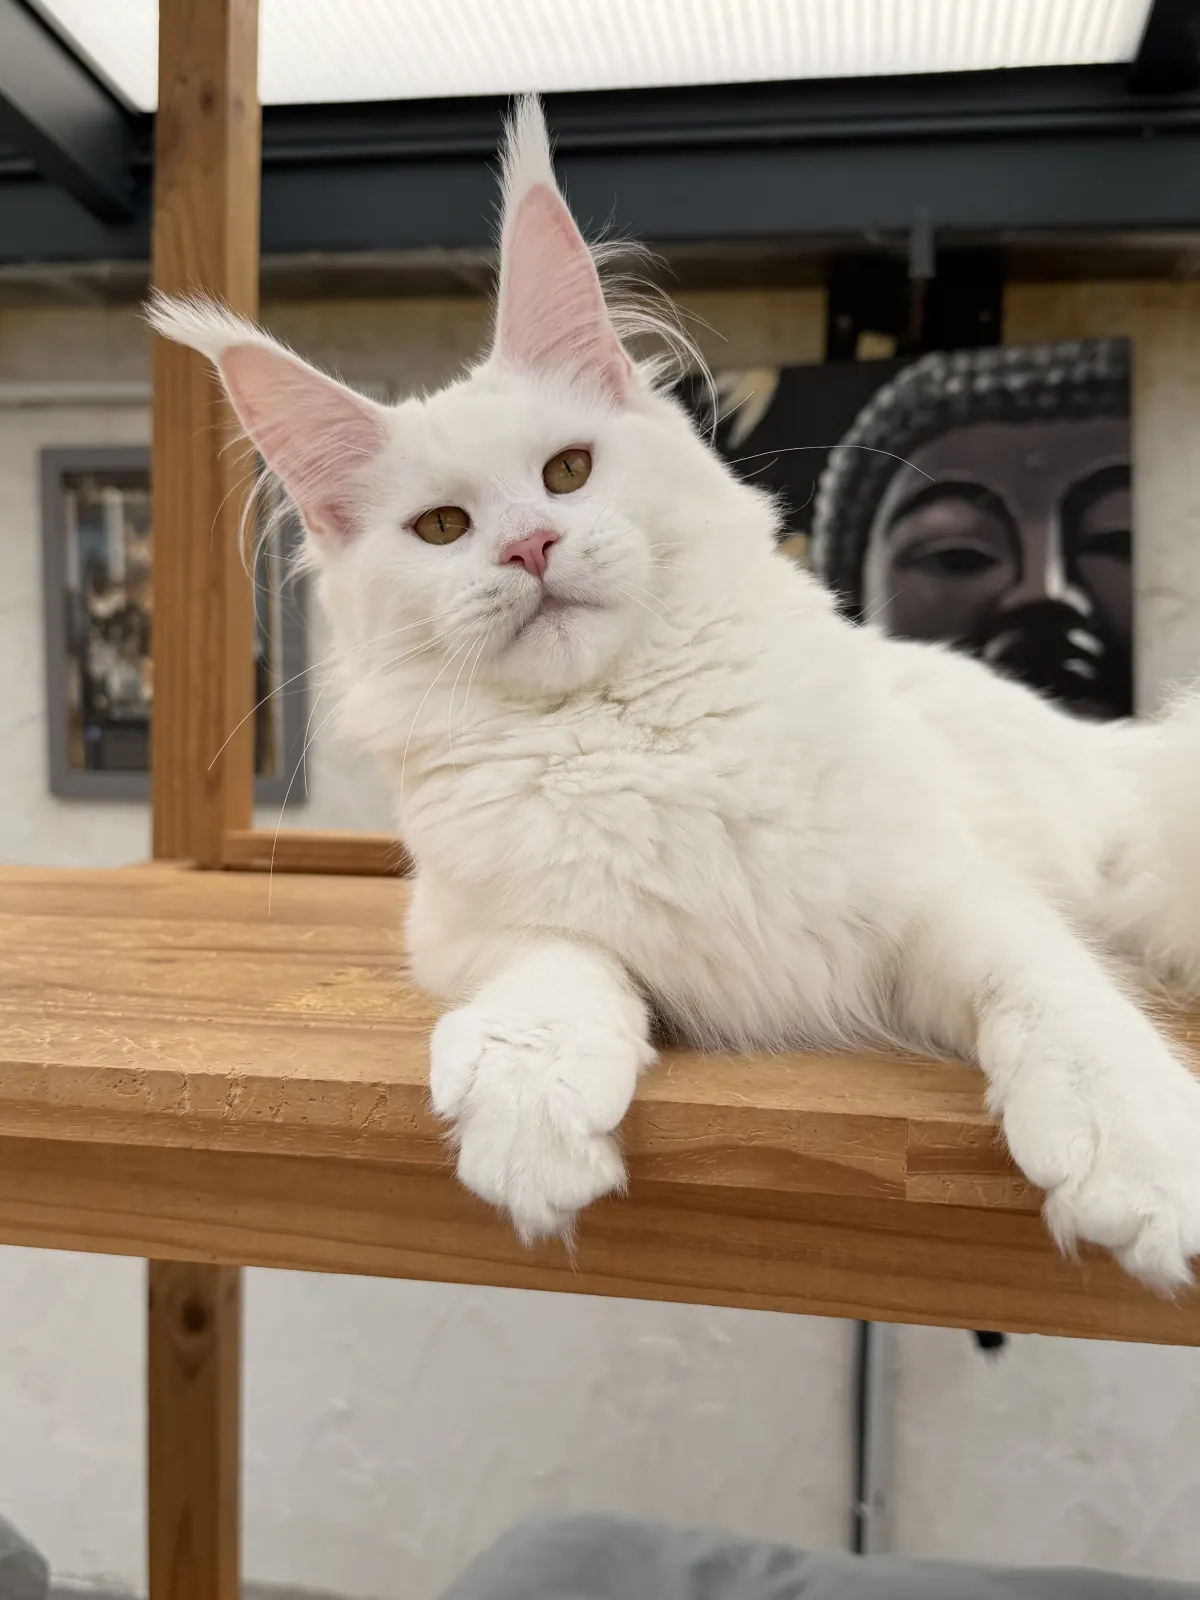
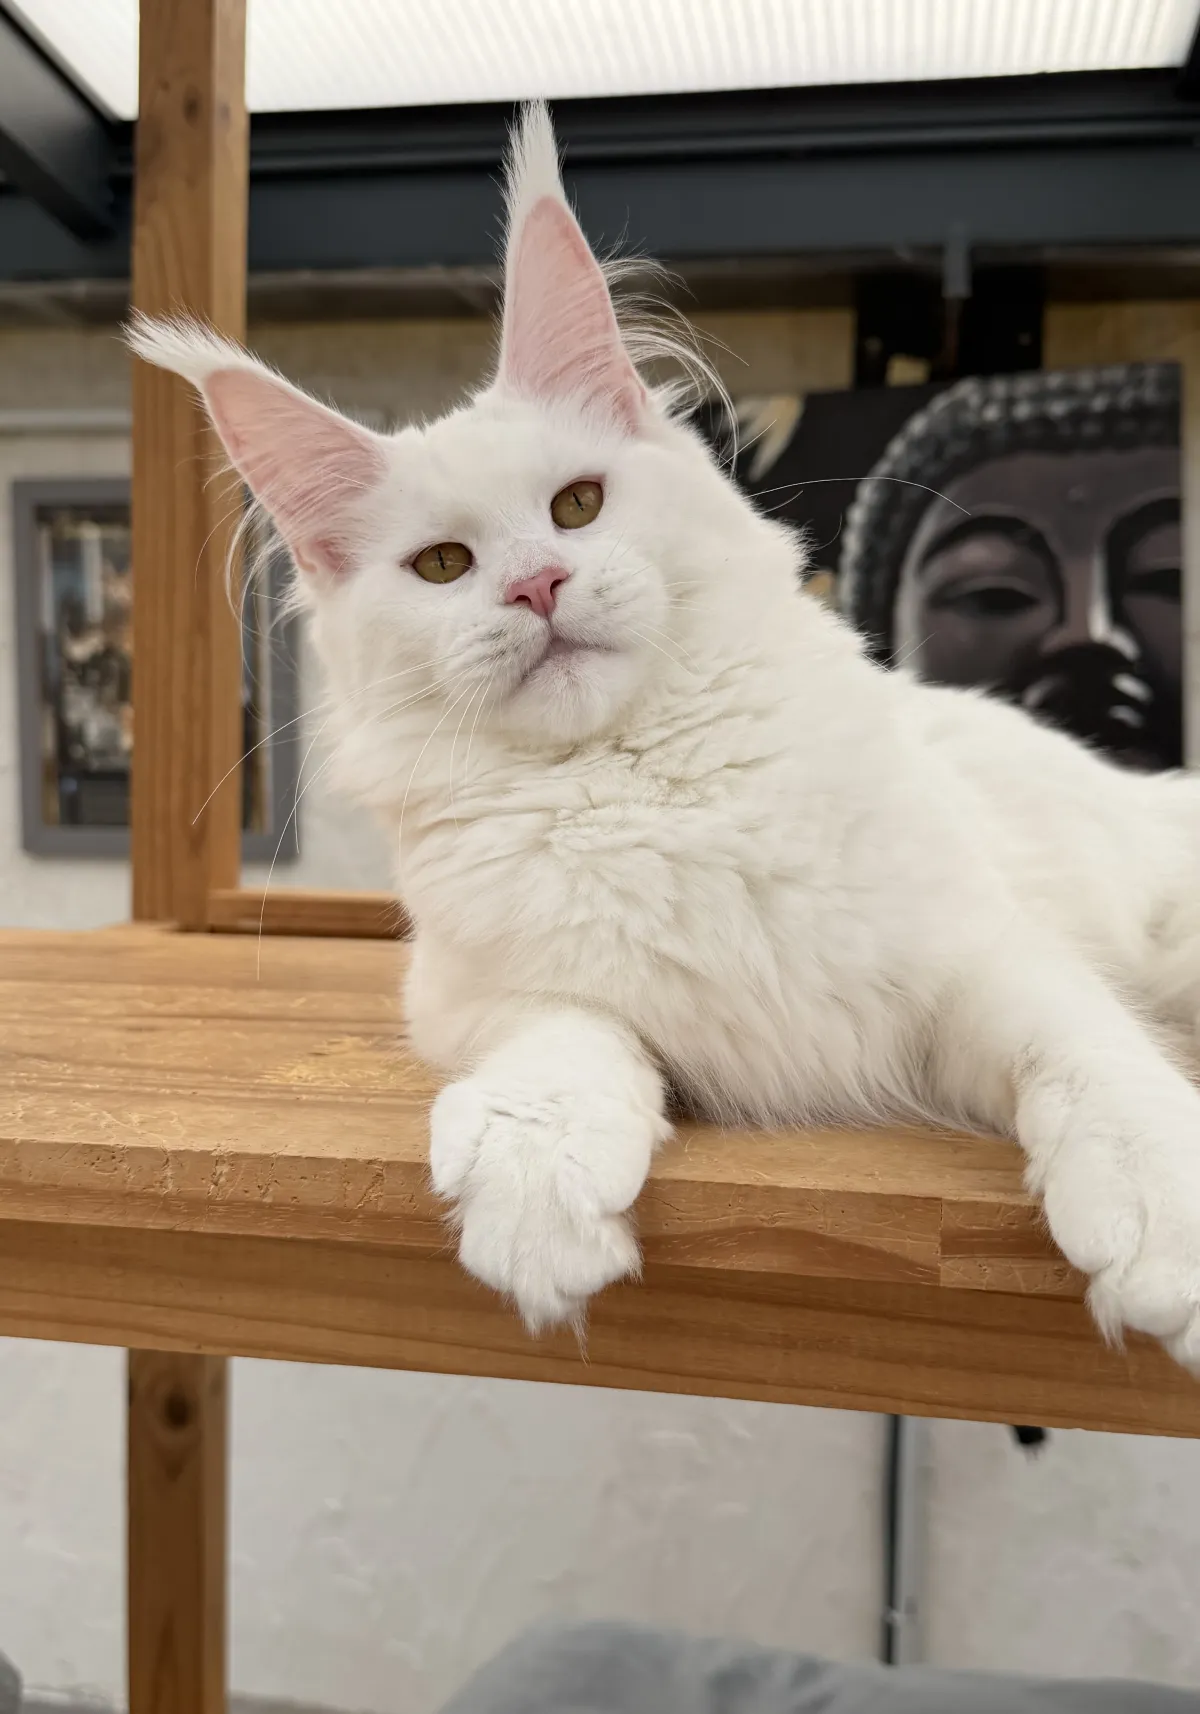
Recadrer au sujet, unifier les cadres, donner de la matiere a la page
TROIS DEFAUTS RELEVES.

Les photos etaient de formats differents et object-fit les recadrait au
centre geometrique — qui, sur un chat, est le ventre : les tetes sortaient
du cadre. Elles sont desormais recadrees au SUJET, depuis les originaux
pleine resolution : on mesure l'energie de contours par ligne et par
colonne, on prend le barycentre, et on remonte d'un huitieme parce que
l'oeil veut la tete et non le milieu du corps. Les vingt-neuf cadres du
site partagent maintenant un seul et meme format, celui des photos, donc
plus rien n'est rogne.

Les reperes de la page de race etaient cales sur une photo remplacee
depuis, et leur cadre etait en 4/3 quand la photo est en 7/10 : l'image
etait recadree et les reperes, poses en pourcentage du CADRE, ne
designaient plus rien. Cadre au format de la photo, lecteur en deux
colonnes, coordonnees reprises sur un portrait de profil ou chaque trait
du standard se montre.

La page etait nue : un aplat sombre, meme beau, reste un aplat. Ajout du
grain (une tuile de bruit fixe, en fondu overlay), de la profondeur (chaque
bande s'assombrit vers ses bords), d'un filet d'or sous chaque titre de
chapitre, de lettrines sur les longs passages, d'equerres d'angle sur les
sections, d'un reflet qui balaye les cadres au survol, et d'une derive
lente des bandes photo pilotee par le defilement.

diff --git a/resources/css/app.css b/resources/css/app.css
@@ -196,7 +196,10 @@ em{font-style:italic}
 /* Trois filets successifs, comme la gorge d'un portail. La forme est
    obtenue par border-radius elliptique : elle se déforme avec le cadre,
    là où un clip-path figerait la courbe. */
-.arche{position:relative;padding:9px;border:1px solid rgba(217,178,106,.55);
+/* Le format unique de tous les cadres. Les photos sont recadrees a l'identique
+   (voir le script de recadrage) : cadre et photo ont donc exactement le meme
+   rapport, et rien n'est jamais rogne ni deforme. */
+.arche{--format:7/10;aspect-ratio:var(--format);position:relative;padding:9px;border:1px solid rgba(217,178,106,.55);
   border-radius:50% 50% 4px 4px / 35% 35% 4px 4px;
   background:linear-gradient(180deg,rgba(217,178,106,.14),rgba(217,178,106,.02) 60%)}
 .arche > i{display:block;width:100%;height:100%;padding:5px;
@@ -263,7 +266,7 @@ em{font-style:italic}
   width:min(330px,86vw);transition:transform .5s var(--ease)}
 @media(min-width:900px){.portrait:nth-child(even){margin-top:46px}}
 .portrait:hover{transform:translateY(-6px)}
-.portrait .arche{width:100%;aspect-ratio:33/46;transition:border-color .4s}
+.portrait .arche{width:100%;aspect-ratio:7/10;transition:border-color .4s}
 .portrait:hover .arche{border-color:rgba(242,223,174,.8)}
 .portrait img{transition:transform 1.1s var(--ease)}
 .portrait:hover img{transform:scale(1.05)}
@@ -277,7 +280,7 @@ em{font-style:italic}
 .fiche{display:flex;flex-direction:column;gap:14px;
   transition:transform .45s var(--ease)}
 .fiche:hover{transform:translateY(-5px)}
-.fiche .arche{width:100%;aspect-ratio:4/5;position:relative;transition:border-color .4s}
+.fiche .arche{width:100%;aspect-ratio:7/10;position:relative;transition:border-color .4s}
 .fiche:hover .arche{border-color:rgba(242,223,174,.75)}
 .fiche .pastille{position:absolute;left:50%;top:18px;transform:translateX(-50%);z-index:2;
   backdrop-filter:blur(8px)}
@@ -523,8 +526,17 @@ footer{view-transition-name:pied}
 /* Une photo, des repères posés dessus, et un panneau qui se remplit au
    survol comme au clic. Sans JavaScript le panneau garde le premier repère :
    la page reste lisible et complète. */
-.lecture{position:relative;overflow:hidden;border:1px solid var(--filet);background:var(--nuit-3)}
-.lecture > img{width:100%;aspect-ratio:4/3;object-fit:cover}
+/* Le lecteur tient en deux colonnes : la photo a gauche, le panneau a droite.
+   Le cadre suit le format exact de la photo (7/10) — un cadre au format
+   different recadrerait l'image, et les reperes, poses en pourcentage du
+   CADRE, ne designeraient plus rien. */
+.lecteur{display:grid;grid-template-columns:minmax(0,440px) minmax(0,1fr);
+  gap:clamp(22px,3vw,44px);align-items:start}
+@media(max-width:820px){.lecteur{grid-template-columns:1fr;justify-items:center}}
+
+.lecture{position:relative;overflow:hidden;border:1px solid var(--filet);background:var(--nuit-3);
+  width:100%;aspect-ratio:7/10}
+.lecture > img{width:100%;height:100%;object-fit:cover;display:block}
 .repere{position:absolute;width:28px;height:28px;padding:0;border-radius:50%;
   border:1px solid var(--or-clair);background:rgba(8,11,10,.55);
   backdrop-filter:blur(4px);-webkit-backdrop-filter:blur(4px);
@@ -537,7 +549,7 @@ footer{view-transition-name:pied}
   animation:onde 3s ease-out infinite}
 @keyframes onde{0%{transform:scale(.8);opacity:.9}100%{transform:scale(1.55);opacity:0}}
 @media(prefers-reduced-motion:reduce){.repere .onde{animation:none;opacity:.35}}
-.lecture-info{border:1px solid var(--filet);border-top:0;background:var(--nuit-2);
+.lecture-info{border:1px solid var(--filet);background:var(--nuit-2);align-self:center;
   padding:clamp(20px,3vw,26px);min-height:150px;display:flex;flex-direction:column;gap:10px}
 .lecture-info .k{font-family:var(--pierre);font-size:10px;letter-spacing:.2em;text-transform:uppercase;color:var(--or)}
 .lecture-info h3{color:var(--ivoire)}
@@ -706,7 +718,7 @@ a.case:hover{border-color:var(--or-ombre);background:var(--emeraude)}
    clic, et la mise en page ne bouge jamais d'un pixel. */
 .viseur{display:flex;flex-direction:column;gap:12px}
 
-.viseur .scene{cursor:zoom-in;aspect-ratio:4/5}
+.viseur .scene{cursor:zoom-in;aspect-ratio:7/10}
 .viseur .scene > i > u{position:relative}
 .viseur .scene img{position:absolute;inset:0;width:100%;height:100%;object-fit:cover;
   opacity:0;transition:opacity .45s var(--ease)}
@@ -784,3 +796,110 @@ a.case:hover{border-color:var(--or-ombre);background:var(--emeraude)}
 /* ── pied du relevé ──────────────────────────────────────────────── */
 .releve .foot{padding:24px;background:var(--nuit-3);display:flex;flex-direction:column;gap:11px;
   border-top:1px solid var(--filet-2)}
+
+
+/* ═══════════════════════════════════════════════════════════════════
+   La matière
+
+   Un aplat de couleur sombre, même beau, reste un aplat : la page paraît
+   nue. Ce qui manque n'est pas du contenu, c'est de la matière — le grain
+   du papier, la profondeur d'un fond qui s'assombrit vers les bords, et
+   l'ornement qui dit qu'une main est passée par là.
+   ═══════════════════════════════════════════════════════════════════ */
+
+/* ── le grain ────────────────────────────────────────────────────── */
+/* Une tuile de bruit posée sur toute la page, en fondu « overlay » pour
+   qu'elle accroche les zones claires sans salir les noirs. Fixe : elle ne
+   défile pas, comme le grain d'un tirage argentique. */
+#grain{position:fixed;inset:0;z-index:1;pointer-events:none;
+  background-image:url("../images/grain.png");background-size:96px 96px;
+  opacity:.5;mix-blend-mode:overlay}
+@media(prefers-reduced-motion:reduce){#grain{opacity:.32}}
+
+/* Tout ce qui doit rester au-dessus du grain. */
+.bandeau,footer,.hero,.bande,.vivant,.bande-photo,#lb,.barre-chaton{position:relative;z-index:2}
+.bandeau{z-index:60}
+#lb{z-index:90}
+
+/* ── la profondeur ───────────────────────────────────────────────── */
+/* Chaque bande s'assombrit vers ses bords. Deux dégradés très faibles,
+   posés en pseudo-élément pour ne rien coûter en balises. */
+.bande::before{content:"";position:absolute;inset:0;pointer-events:none;z-index:0;
+  background:
+    radial-gradient(120% 70% at 50% 0%,rgba(20,48,42,.28),transparent 62%),
+    radial-gradient(100% 60% at 50% 100%,rgba(0,0,0,.34),transparent 68%)}
+.bande > *{position:relative;z-index:1}
+.bande.creuse::before{
+  background:
+    radial-gradient(110% 60% at 50% 0%,rgba(27,63,54,.34),transparent 64%),
+    radial-gradient(140% 80% at 50% 120%,rgba(0,0,0,.42),transparent 70%)}
+
+/* ── les équerres d'angle sur une bande ──────────────────────────── */
+/* Le même vocabulaire que le registre, monté d'un cran : la section
+   entière est encadrée, discrètement, comme une page de garde. */
+.bande.encadree > .wrap{position:relative;padding-block:clamp(26px,3.4vw,42px)}
+.bande.encadree > .wrap::before,
+.bande.encadree > .wrap::after{content:"";position:absolute;width:34px;height:34px;pointer-events:none;
+  border-color:var(--or-ombre);border-style:solid}
+.bande.encadree > .wrap::before{left:clamp(6px,1.6vw,22px);top:0;border-width:1px 0 0 1px}
+.bande.encadree > .wrap::after{right:clamp(6px,1.6vw,22px);bottom:0;border-width:0 1px 1px 0}
+
+/* ── la lettrine ─────────────────────────────────────────────────── */
+/* L'initiale enluminée d'un texte long : elle donne un point d'entrée à
+   l'œil et signe la page comme un imprimé. */
+.lettrine::first-letter{
+  float:left;font-family:var(--titre);font-size:4.4em;line-height:.82;
+  font-weight:400;padding:.06em .12em 0 0;
+  background:var(--dorure);-webkit-background-clip:text;background-clip:text;color:transparent}
+@supports not ((-webkit-background-clip:text) or (background-clip:text)){
+  .lettrine::first-letter{background:none;color:var(--or-clair)}
+}
+
+/* ── l'or qui balaye un cadre au survol ──────────────────────────── */
+/* Un reflet passe sur le filet doré quand la souris entre. Le masque
+   découpe le dégradé en anneau : seul le filet s'allume, jamais la photo. */
+.arche::after{content:"";position:absolute;inset:-1px;border-radius:inherit;pointer-events:none;
+  padding:1px;opacity:0;transition:opacity .45s var(--ease);
+  background:linear-gradient(118deg,transparent 40%,rgba(255,243,214,.62) 50%,transparent 60%);
+  -webkit-mask:linear-gradient(#000,#000) content-box,linear-gradient(#000,#000);
+          mask:linear-gradient(#000,#000) content-box,linear-gradient(#000,#000);
+  -webkit-mask-composite:xor;mask-composite:exclude}
+.fiche:hover .arche::after,
+.portrait:hover .arche::after,
+.viseur .scene:hover::after{opacity:1}
+@media(prefers-reduced-motion:reduce){.arche::after{display:none}}
+
+/* ── les bandes photo respirent ──────────────────────────────────── */
+/* Le cadrage se déplace lentement avec le défilement : la photo n'est plus
+   une image posée, elle a une épaisseur. Là où animation-timeline manque,
+   l'ancienne animation d'ampleur reste. */
+@supports (animation-timeline:view()){
+  @media(prefers-reduced-motion:no-preference){
+    .bande-photo img{animation:derive linear both;animation-timeline:view();
+      animation-range:cover 0% cover 100%}
+    @keyframes derive{
+      from{transform:scale(1.14) translate3d(0,-3.2%,0)}
+      to{transform:scale(1.14) translate3d(0,3.2%,0)}
+    }
+  }
+}
+
+/* ── un filet d'or sous chaque titre de chapitre ─────────────────── */
+.chapitre h1::after,.chapitre h2::after{content:"";display:block;
+  width:clamp(52px,7vw,84px);height:1px;margin:clamp(16px,2vw,22px) auto 0;
+  background:linear-gradient(90deg,transparent,var(--or),transparent)}
+.chapitre.gauche h1::after,.chapitre.gauche h2::after{margin-inline:0;
+  background:linear-gradient(90deg,var(--or),transparent)}
+
+/* ── les cellules s'allument ─────────────────────────────────────── */
+.cellule{position:relative;transition:background .4s}
+.cellule::before{content:"";position:absolute;inset:0;pointer-events:none;opacity:0;
+  transition:opacity .45s;
+  background:radial-gradient(120% 90% at 50% 0%,rgba(217,178,106,.09),transparent 70%)}
+.cellule:hover{background:var(--nuit-3)}
+.cellule:hover::before{opacity:1}
+
+/* ── le pied de page reçoit la même profondeur ───────────────────── */
+footer::before{content:"";position:absolute;inset:0;pointer-events:none;
+  background:radial-gradient(120% 90% at 50% 0%,rgba(20,48,42,.3),transparent 66%)}
+footer > *{position:relative}

diff --git a/config/chatterie.php b/config/chatterie.php
@@ -26,48 +26,49 @@ return [
      * Nord-Est americain, ou seuls tenaient les chats bien equipes. C'est
      * l'angle de la page — expliquer a quoi sert ce qu'on regarde.
      *
-     * Les coordonnees sont calees sur images/cats/hero-duo.webp. A reprendre
-     * quand l'eleveuse fournira ses propres photos.
+     * Les coordonnees sont calees sur images/cats/tika.webp, choisie parce
+     * qu'elle est assise de profil, corps entier : chaque trait du standard
+     * s'y montre. Changer cette photo impose de les reprendre.
      */
     'morphologie' => [
         [
-            'x' => 52,
-            'y' => 16,
+            'x' => 62,
+            'y' => 9,
             'categorie' => 'Oreilles',
             'titre' => 'Lynx tips',
             'texte' => 'Les touffes de poils qui prolongent la pointe de l\'oreille. Elles brisent le vent et protègent le conduit du froid. Grandes oreilles larges à la base, plantées haut : c\'est l\'un des traits les plus recherchés du standard.',
         ],
         [
-            'x' => 54,
-            'y' => 27,
+            'x' => 57,
+            'y' => 30,
             'categorie' => 'Tête',
             'titre' => 'Museau carré',
             'texte' => 'Le museau du Maine Coon se coupe net, en angle droit vu de profil, avec un menton ferme aligné sous le nez. C\'est ce qui lui donne son air sérieux, et c\'est un point que les juges regardent en premier.',
         ],
         [
-            'x' => 49,
-            'y' => 43,
+            'x' => 55,
+            'y' => 41,
             'categorie' => 'Poil',
             'titre' => 'Collerette',
             'texte' => 'La fraise de poils longs autour du cou, très marquée en hiver, beaucoup plus discrète après la mue de printemps. Elle protège la gorge — la zone la plus exposée quand le chat dort en boule dans la neige.',
         ],
         [
-            'x' => 40,
-            'y' => 62,
+            'x' => 25,
+            'y' => 55,
             'categorie' => 'Fourrure',
             'titre' => 'Poil mi-long hydrofuge',
             'texte' => 'Court sur les épaules, long sur les flancs et la culotte. Cette répartition n\'est pas un hasard : elle laisse l\'épaule libre pour marcher et couvre ce qui touche le sol. Le poil repousse l\'eau plutôt que de l\'absorber.',
         ],
         [
             'x' => 28,
-            'y' => 80,
+            'y' => 83,
             'categorie' => 'Queue',
             'titre' => 'Queue en panache',
             'texte' => 'Longue — elle doit atteindre au moins l\'épaule quand on la rabat — et très fournie. Le chat s\'en couvre le museau et les coussinets pour dormir. C\'est une couverture, pas un ornement.',
         ],
         [
-            'x' => 66,
-            'y' => 55,
+            'x' => 44,
+            'y' => 68,
             'categorie' => 'Ossature',
             'titre' => 'Corps rectangulaire',
             'texte' => 'Poitrine large, ossature lourde, corps plus long que haut. Un mâle adulte pèse entre six et neuf kilos, et met trois à quatre ans à finir de se construire — deux fois plus longtemps qu\'un chat de gouttière.',

diff --git a/resources/views/pages/breed.blade.php b/resources/views/pages/breed.blade.php
@@ -49,7 +49,7 @@
             <div class="pile">
                 <span class="numero" style="font-family:var(--pierre);font-size:12px;letter-spacing:.34em;text-transform:uppercase;color:var(--or-mat)">Chapitre premier</span>
                 <h2>Une race née dans<br>les hivers du Maine</h2>
-                <p class="lede">
+                <p class="lede lettrine">
                     Le Maine Coon est l'une des plus anciennes races naturelles d'Amérique du Nord.
                     Personne ne l'a dessiné : il s'est formé tout seul dans le Nord-Est des
                     États-Unis, où seuls tenaient les chats à fourrure dense, à grandes pattes et
@@ -81,11 +81,12 @@
 
         @php($points = config('chatterie.morphologie'))
 
-        <div style="max-width:940px;margin-inline:auto" class="monte">
+        <div class="lecteur monte">
             <div class="lecture" id="lecture"
                  data-points="{{ json_encode(collect($points)->map(fn ($p) => ['k' => $p['categorie'], 't' => $p['titre'], 'd' => $p['texte']]), JSON_UNESCAPED_UNICODE) }}">
-                <img src="{{ asset('images/cats/karrington.webp') }}"
-                     alt="Maine Coon de la chatterie, morphologie de la race" loading="lazy">
+                <img src="{{ asset('images/cats/tika.webp') }}"
+                     alt="Tika, Maine Coon red de la chatterie, vue de profil"
+                     width="1200" height="1714" loading="lazy">
                 @foreach($points as $i => $p)
                     <button class="repere" type="button"
                             style="left:{{ $p['x'] }}%;top:{{ $p['y'] }}%"
@@ -226,7 +227,7 @@
 </section>
 
 {{-- ═══ santé ═══ --}}
-<section class="bande creuse" id="sante">
+<section class="bande creuse encadree" id="sante">
     <div class="wrap">
         <x-section-head
             class="monte"

diff --git a/resources/views/pages/kittens/index.blade.php b/resources/views/pages/kittens/index.blade.php
@@ -48,7 +48,7 @@
             <div class="pile">
                 <span class="rubrique">Suivi de la portée</span>
                 <h2>Où en sont-ils<br>aujourd’hui</h2>
-                <p class="lede">
+                <p class="lede lettrine">
                     Le même calendrier pour les {{ $portee->nb_chatons }} chatons. Il se remplit au
                     fil des actes vétérinaires saisis dans l’espace de gestion — ce n’est pas un
                     texte écrit une fois pour toutes, c’est l’état réel de la portée.

diff --git a/resources/views/pages/cats/index.blade.php b/resources/views/pages/cats/index.blade.php
@@ -69,7 +69,7 @@
             <div class="pile">
                 <span class="rubrique">Notre façon de faire</span>
                 <h2>Peu de portées,<br>et jamais sur commande</h2>
-                <p class="lede">
+                <p class="lede lettrine">
                     Le rythme est calé sur la récupération des femelles, jamais sur la demande.
                     Une chatte ne porte pas deux fois dans l'année parce qu'il y a une liste
                     d'attente.

diff --git a/resources/views/pages/home.blade.php b/resources/views/pages/home.blade.php
@@ -153,7 +153,7 @@
 
 {{-- ═══ chapitre second ═══ --}}
 @if($vitrine)
-<section class="bande creuse">
+<section class="bande creuse encadree">
     <div class="wrap">
         <div class="registre monte">
             <span class="eq" aria-hidden="true"></span><span class="eq" aria-hidden="true"></span>

diff --git a/resources/views/layouts/app.blade.php b/resources/views/layouts/app.blade.php
@@ -39,6 +39,11 @@
 </head>
 <body>
 
+{{-- Le grain de la page : une tuile de bruit fixe, posee au-dessus du fond et
+     sous tout le reste. C'est elle qui empeche les aplats sombres de paraitre
+     plats. --}}
+<div id="grain" aria-hidden="true"></div>
+
 @include('partials.nav')
 
 <main id="app">
